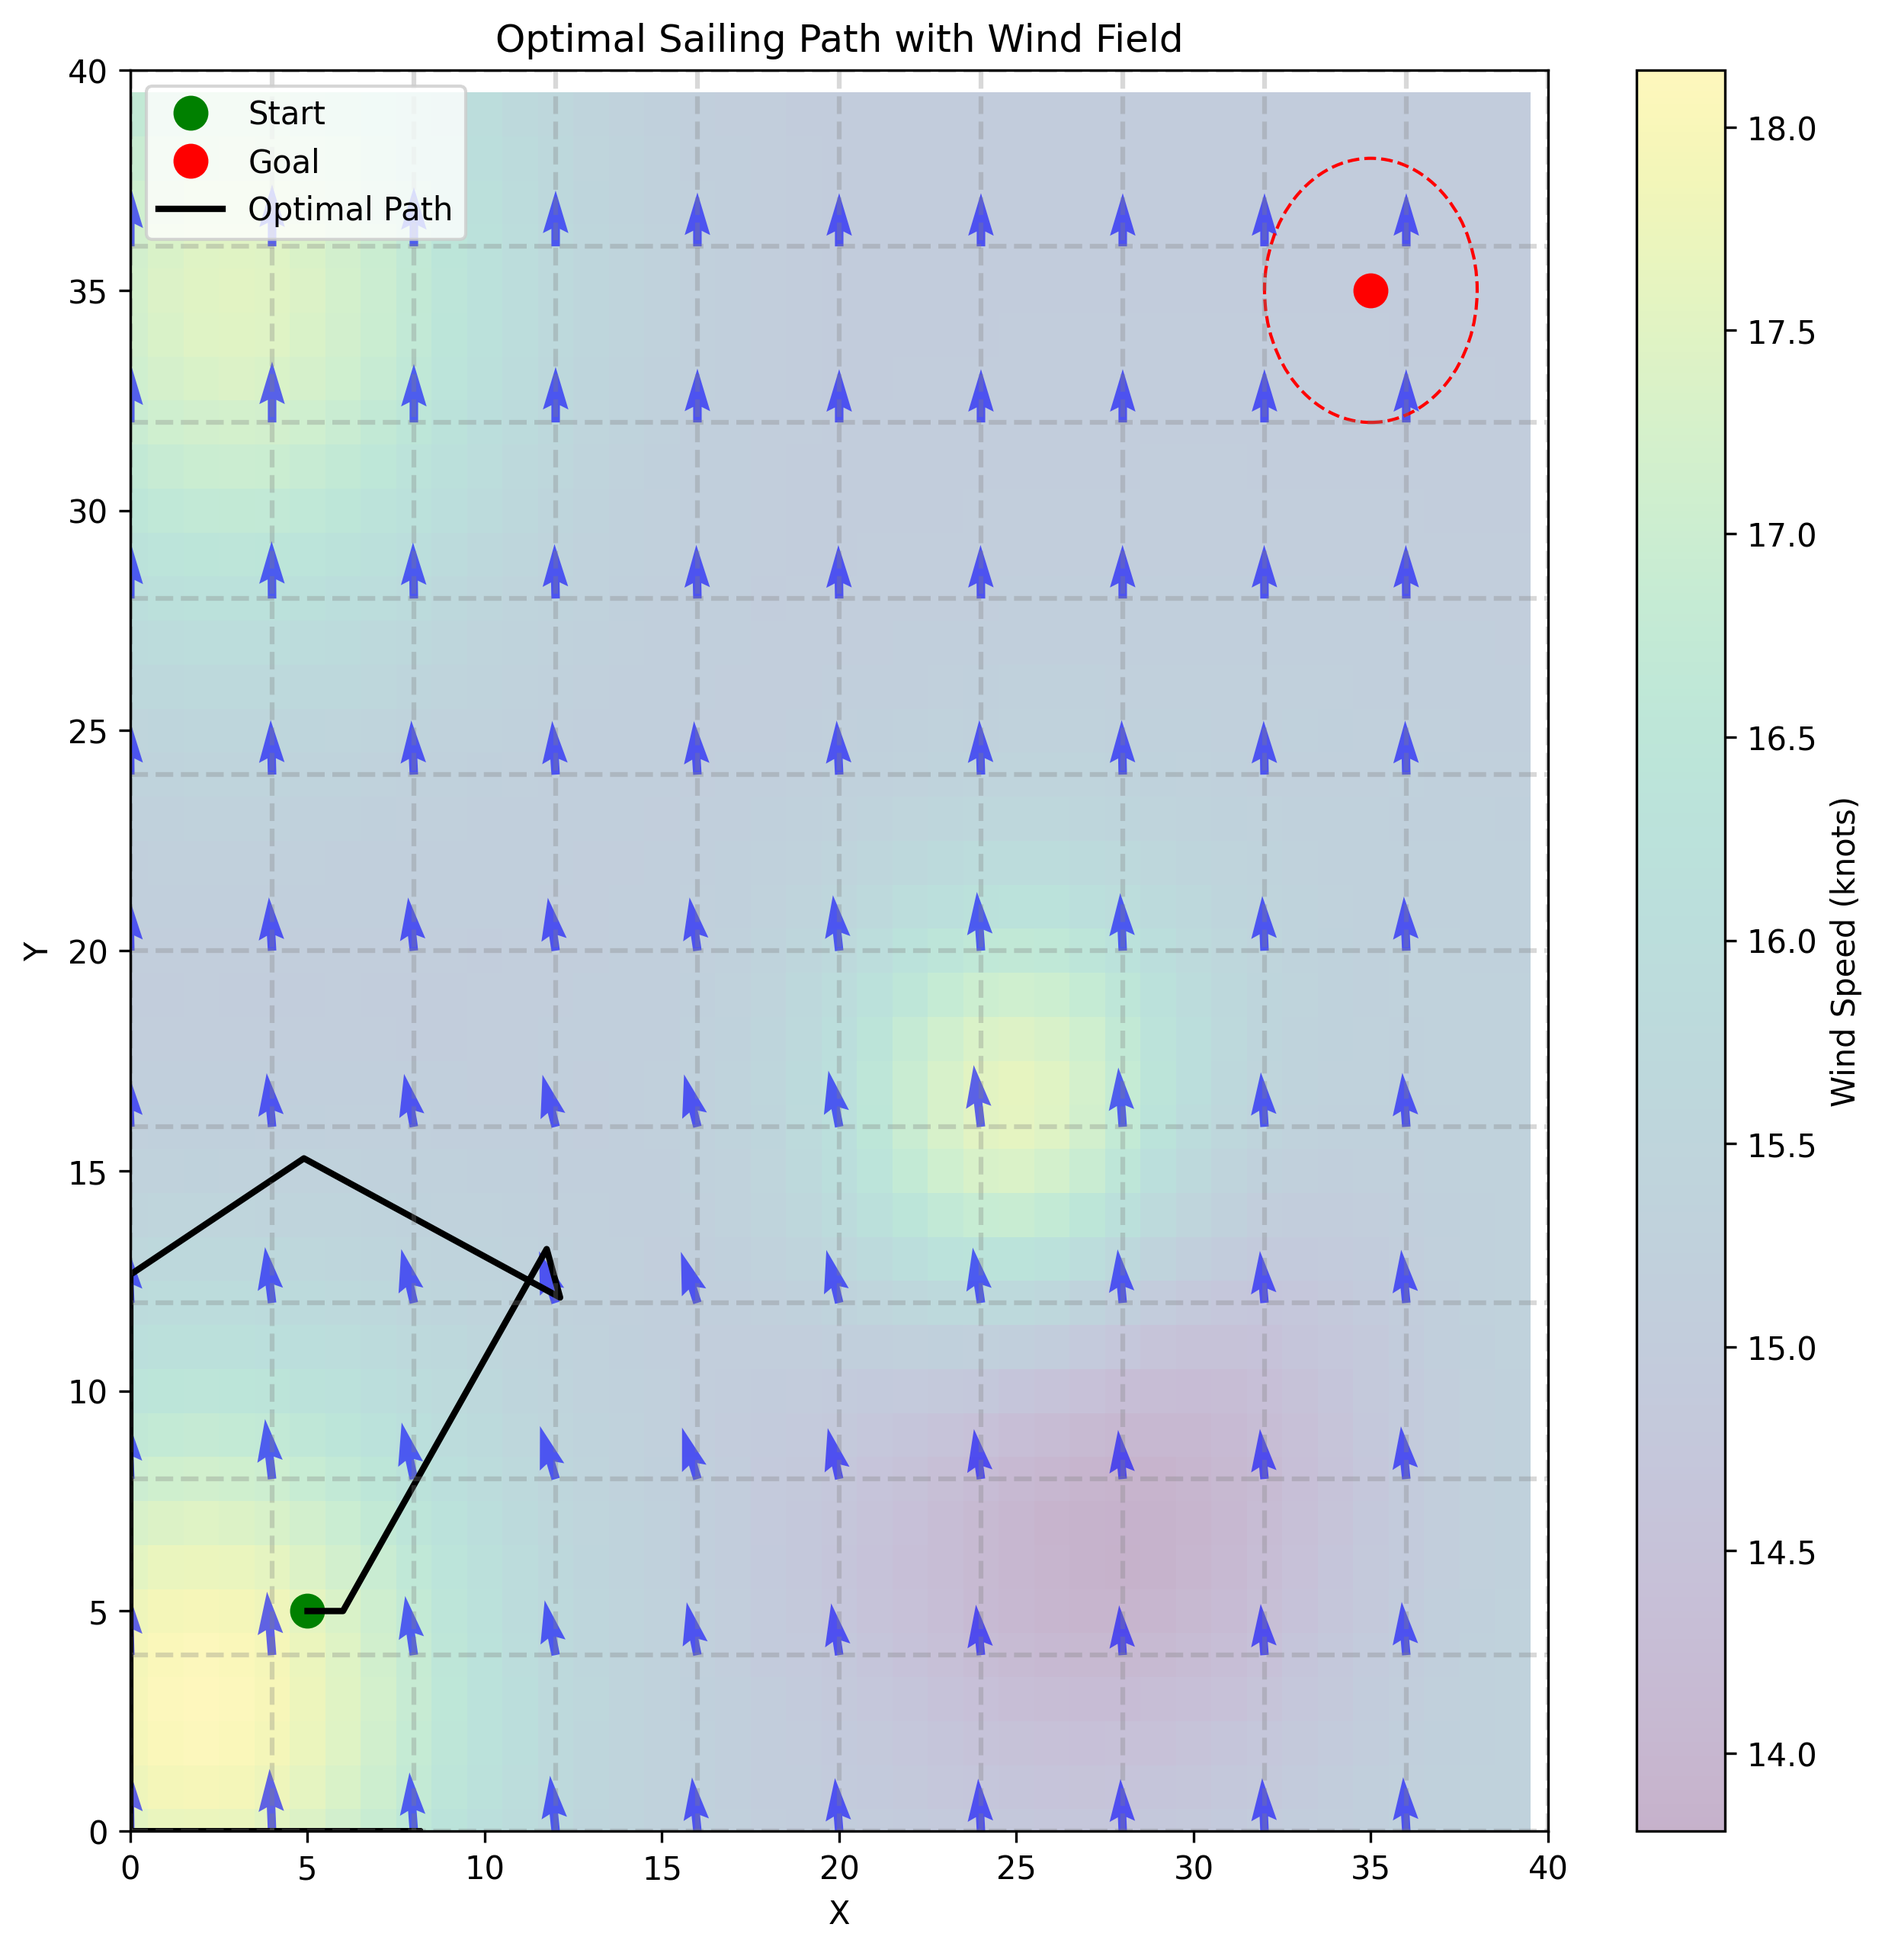
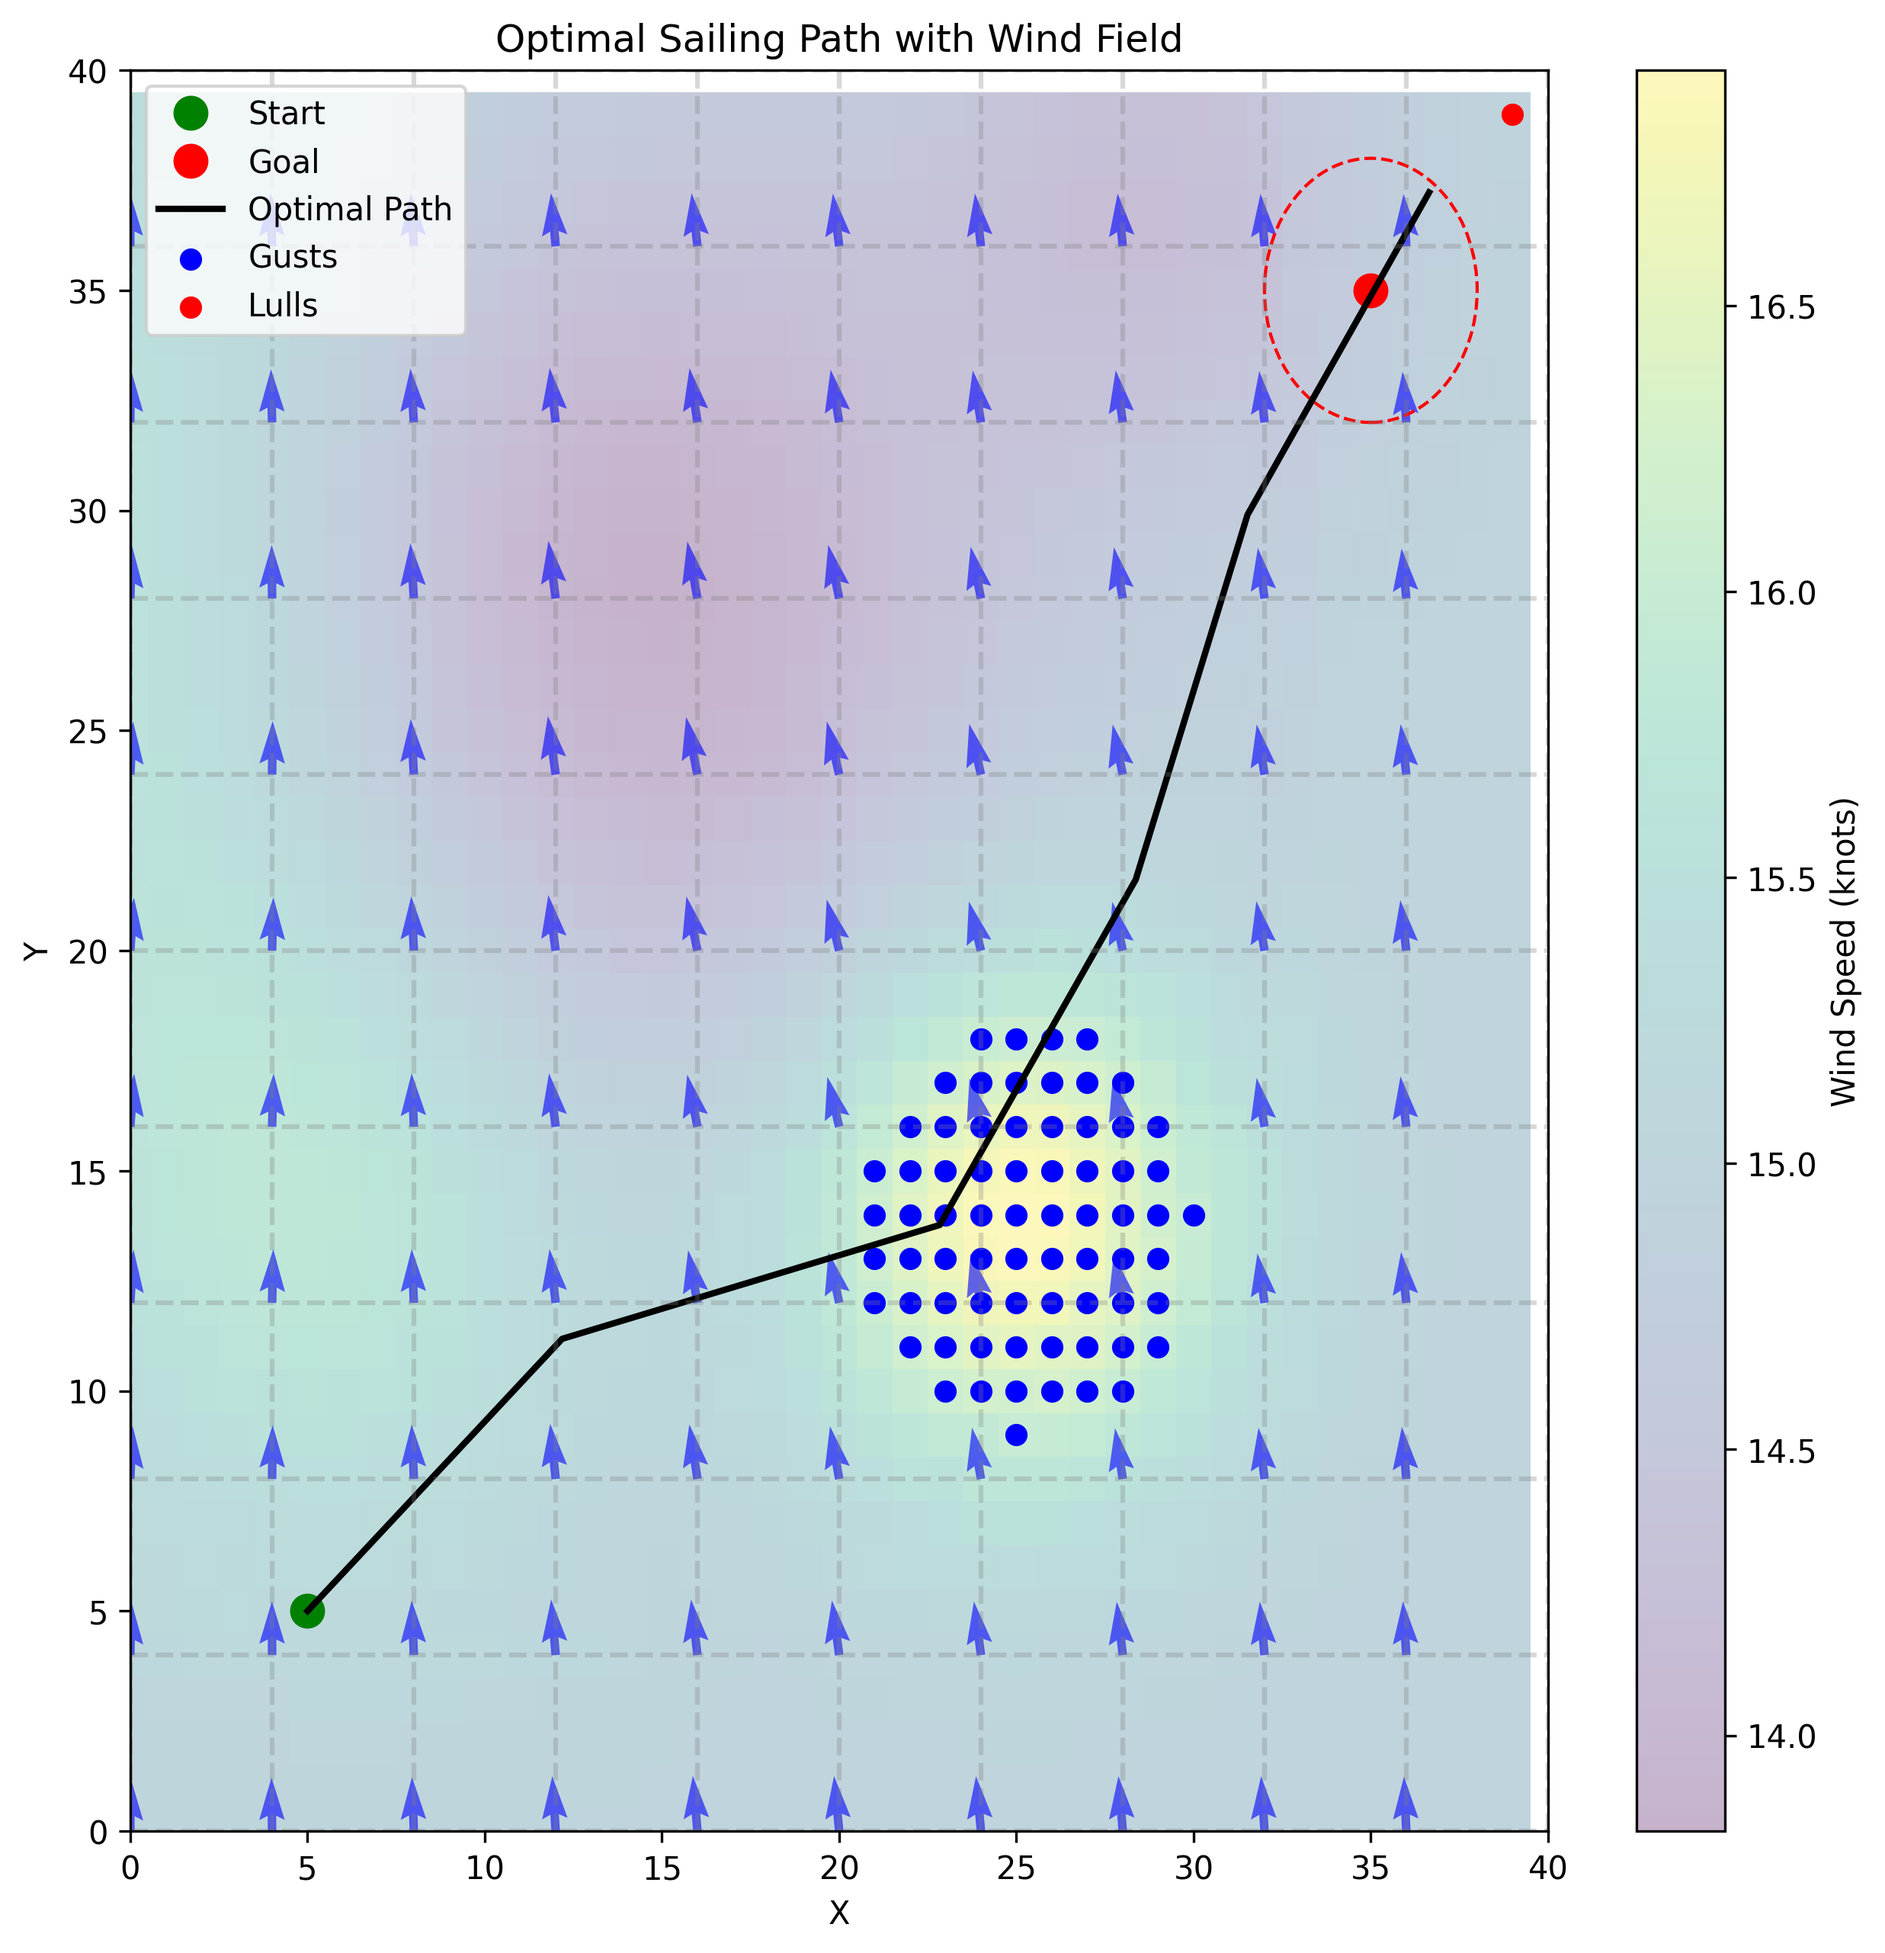
Fix gust visualization and add optimal path visualization on current mpa

diff --git a/mcts.py b/mcts.py
@@ -15,7 +15,7 @@ from tqdm import tqdm
 class DiscreteStateConverter:
     """Converts continuous sailing states to a reduced state space focusing on gusts/lulls."""
 
-    def __init__(self, grid_size_x, grid_size_y, gust_threshold=15.0, lull_threshold=13.0, grid_resolution=10):
+    def __init__(self, grid_size_x, grid_size_y, gust_threshold=16.0, lull_threshold=13.0, grid_resolution=10):
         self.grid_size_x = grid_size_x
         self.grid_size_y = grid_size_y
         self.gust_threshold = gust_threshold  # High wind speed threshold
@@ -34,8 +34,9 @@ class DiscreteStateConverter:
         for x in range(self.grid_size_x):
             for y in range(self.grid_size_y):
                 wind_speed, _ = wind_grid.get_wind_at_position(x, y)
+                if x == 24 and y == 0:
+                    print(f"WIND SPEED WHEN PRECOMPUTING GUSTS AND LULLS: {wind_speed}")
                 if wind_speed > self.gust_threshold:  # Strictly above the threshold
-                    print(f"Wind speed at ({x}, {y}) ABOVE THRESHOLD: {wind_speed}")
                     self.gust_positions.append((x, y))
                 elif wind_speed < self.lull_threshold:  # Strictly below the threshold
                     self.lull_positions.append((x, y))
@@ -141,8 +142,8 @@ class SailingMCTS:
         dist2 = ((goal_x - x2) ** 2 + (goal_y - y2) ** 2) ** 0.5
 
         progress_reward = 200.0 * (dist1 - dist2)  # Increased weight for moving forward
-        gust_reward = -100.0 * gust_dist2  # Less extreme gust reward
-        lull_penalty = 100.0 * lull_dist2  # Still encourage avoiding lulls
+        gust_reward = 100.0 / (gust_dist2 + 1e-3)  # Larger reward when closer to gust
+        lull_penalty = -100.0 / (lull_dist2 + 1e-3)  # Larger penalty when closer to lull
         heading_penalty = -0.5 * abs(heading2 - heading1)  # Reduce unnecessary heading changes
 
         # Encourage sailing at optimal wind angles
@@ -156,7 +157,7 @@ class SailingMCTS:
 
     def find_optimal_path(self, max_steps=100):
         """Find optimal path from start to goal."""
-        state = self.sailing_env.reset()
+        # state = self.sailing_env.reset()
         path = [tuple(self.sailing_env.position)]
 
         for _ in range(max_steps):
@@ -168,7 +169,7 @@ class SailingMCTS:
 
         return path
 
-    def visualize_optimal_path(self, path):
+    def visualize_optimal_path_wind(self, path):
         """Visualize optimal path on the environment"""
         fig, ax = plt.subplots(figsize=(10, 10))
 
@@ -185,11 +186,12 @@ class SailingMCTS:
         for i in range(len(x)):
             for j in range(len(y)):
                 wind_speed, wind_dir = self.sailing_env.wind_grid.get_wind_at_position(i, j)
+                if i == 24 and j == 0:
+                    print(f"WIND SPEED WHEN VISUALIZING PATH: {wind_speed}")
                 wind_rad = np.radians(wind_dir)
                 U[i, j] = wind_speed * np.sin(wind_rad)
                 V[i, j] = wind_speed * np.cos(wind_rad)
-                print(f"Wind speed at ({i}, {j}): {wind_speed:.2f}")
-                speed[i, j] = wind_speed
+                speed[j, i] = wind_speed
 
         # Plot wind as background color
         c = ax.pcolormesh(X, Y, speed, cmap='viridis', alpha=0.3)
@@ -237,6 +239,61 @@ class SailingMCTS:
         ax.legend()
 
         plt.savefig('optimal_sailing_path.png', dpi=300, bbox_inches='tight')
+        plt.show()
+
+    def visualize_optimal_path_current(self, path):
+        """Visualize optimal sailing path with a current field heatmap as background."""
+        fig, ax = plt.subplots(figsize=(10, 10))
+
+        # Get grid size
+        x = np.arange(0, self.sailing_env.grid_size_x, 1)
+        y = np.arange(0, self.sailing_env.grid_size_y, 1)
+        X, Y = np.meshgrid(x, y)
+
+        # Collect current data
+        U = np.zeros_like(X, dtype=float)  # X-component of current
+        V = np.zeros_like(Y, dtype=float)  # Y-component of current
+        speed = np.zeros_like(X, dtype=float)  # Current speed magnitude
+
+        for i in range(len(x)):
+            for j in range(len(y)):
+                current_speed, current_dir = self.sailing_env.current_grid.get_current_at_position(i, j)
+                current_x, current_y = self.sailing_env.current_grid.get_current_vector_at_position(i, j)
+                U[j, i] = current_x  # X-component
+                V[j, i] = current_y  # Y-component
+                speed[j, i] = current_speed  # Current magnitude
+
+        # Plot current speed as a heatmap
+        c = ax.pcolormesh(X, Y, speed, cmap='viridis', shading='auto', alpha=0.7)
+        plt.colorbar(c, ax=ax, label='Current Speed (knots)')
+
+        # Overlay current direction with arrows
+        subsample = 4  # Reduce arrow density
+        ax.quiver(X[::subsample, ::subsample], Y[::subsample, ::subsample],
+                  U[::subsample, ::subsample], V[::subsample, ::subsample],
+                  scale=50, color='white', alpha=0.8, width=0.002)
+
+        # Plot start and goal
+        ax.plot(self.sailing_env.start_pos[0], self.sailing_env.start_pos[1], 'go', markersize=10, label='Start')
+        ax.plot(self.sailing_env.goal_pos[0], self.sailing_env.goal_pos[1], 'ro', markersize=10, label='Goal')
+        circle = Circle(self.sailing_env.goal_pos, self.sailing_env.goal_radius, fill=False, color='r', linestyle='--')
+        ax.add_patch(circle)
+
+        # Plot optimal path
+        path_x, path_y = zip(*path)
+        ax.plot(path_x, path_y, 'k-', linewidth=2, label='Optimal Path')
+
+
+        # Set axis limits and labels
+        ax.set_xlim(0, self.sailing_env.grid_size_x)
+        ax.set_ylim(0, self.sailing_env.grid_size_y)
+        ax.set_xlabel('X')
+        ax.set_ylabel('Y')
+        ax.set_title('Optimal Sailing Path with Current Field Heatmap')
+        ax.legend()
+
+        # Save and show plot
+        plt.savefig('optimal_sailing_path_currents.png', dpi=300, bbox_inches='tight')
         plt.show()
 
     def get_action(self, env):
@@ -327,6 +384,6 @@ def optimize_sailing_path(sailing_env, mcts_iterations=10000):
     
     # Visualize path
     print("Visualizing optimal path...")
-    mcts.visualize_optimal_path(path)
+    mcts.visualize_optimal_path_current(path)
     
     return path

diff --git a/windAndCurrent.py b/windAndCurrent.py
@@ -103,7 +103,7 @@ class WindGrid:
         
         # Ensure minimum wind speed
         self.wind_speed = np.maximum(self.wind_speed, self.base_wind_speed * 0.5)
-        
+        print(f"WIND SPEED: {self.wind_speed[0, 24]}")
         # Normalize wind directions to 0-360
         self.wind_dir = self.wind_dir % 360
     
